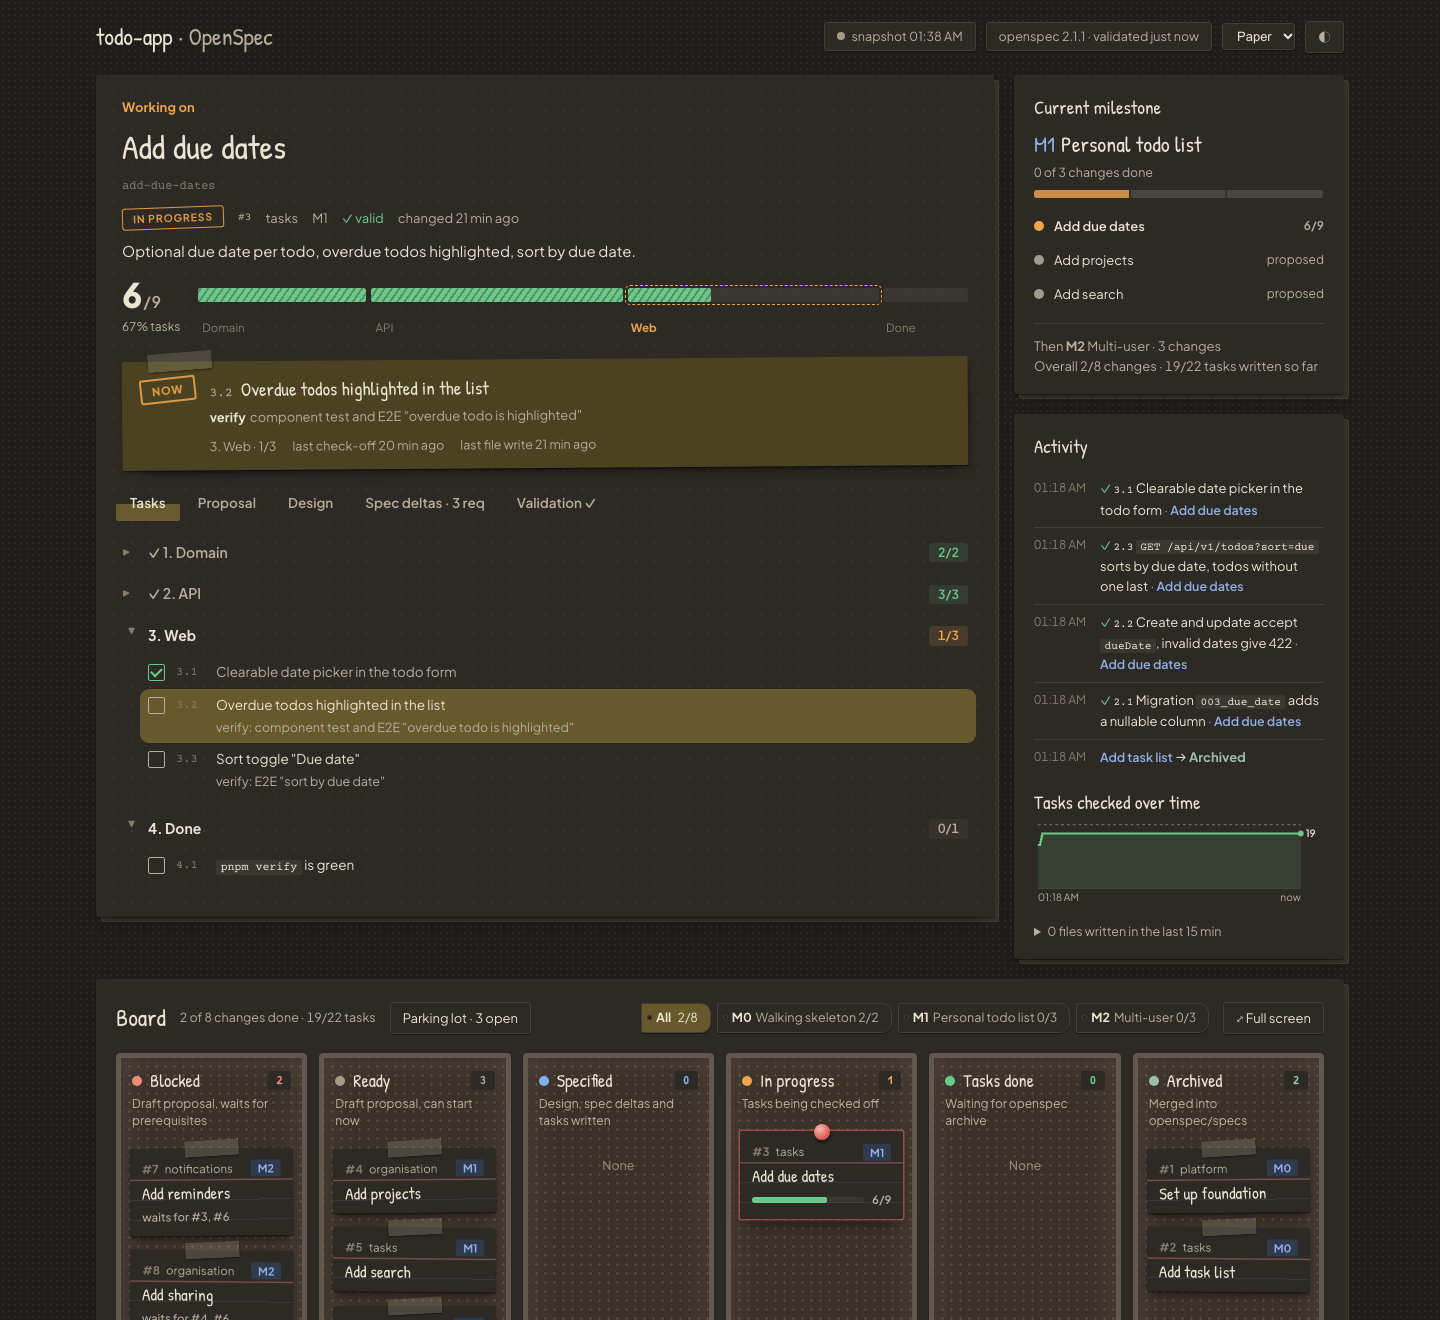
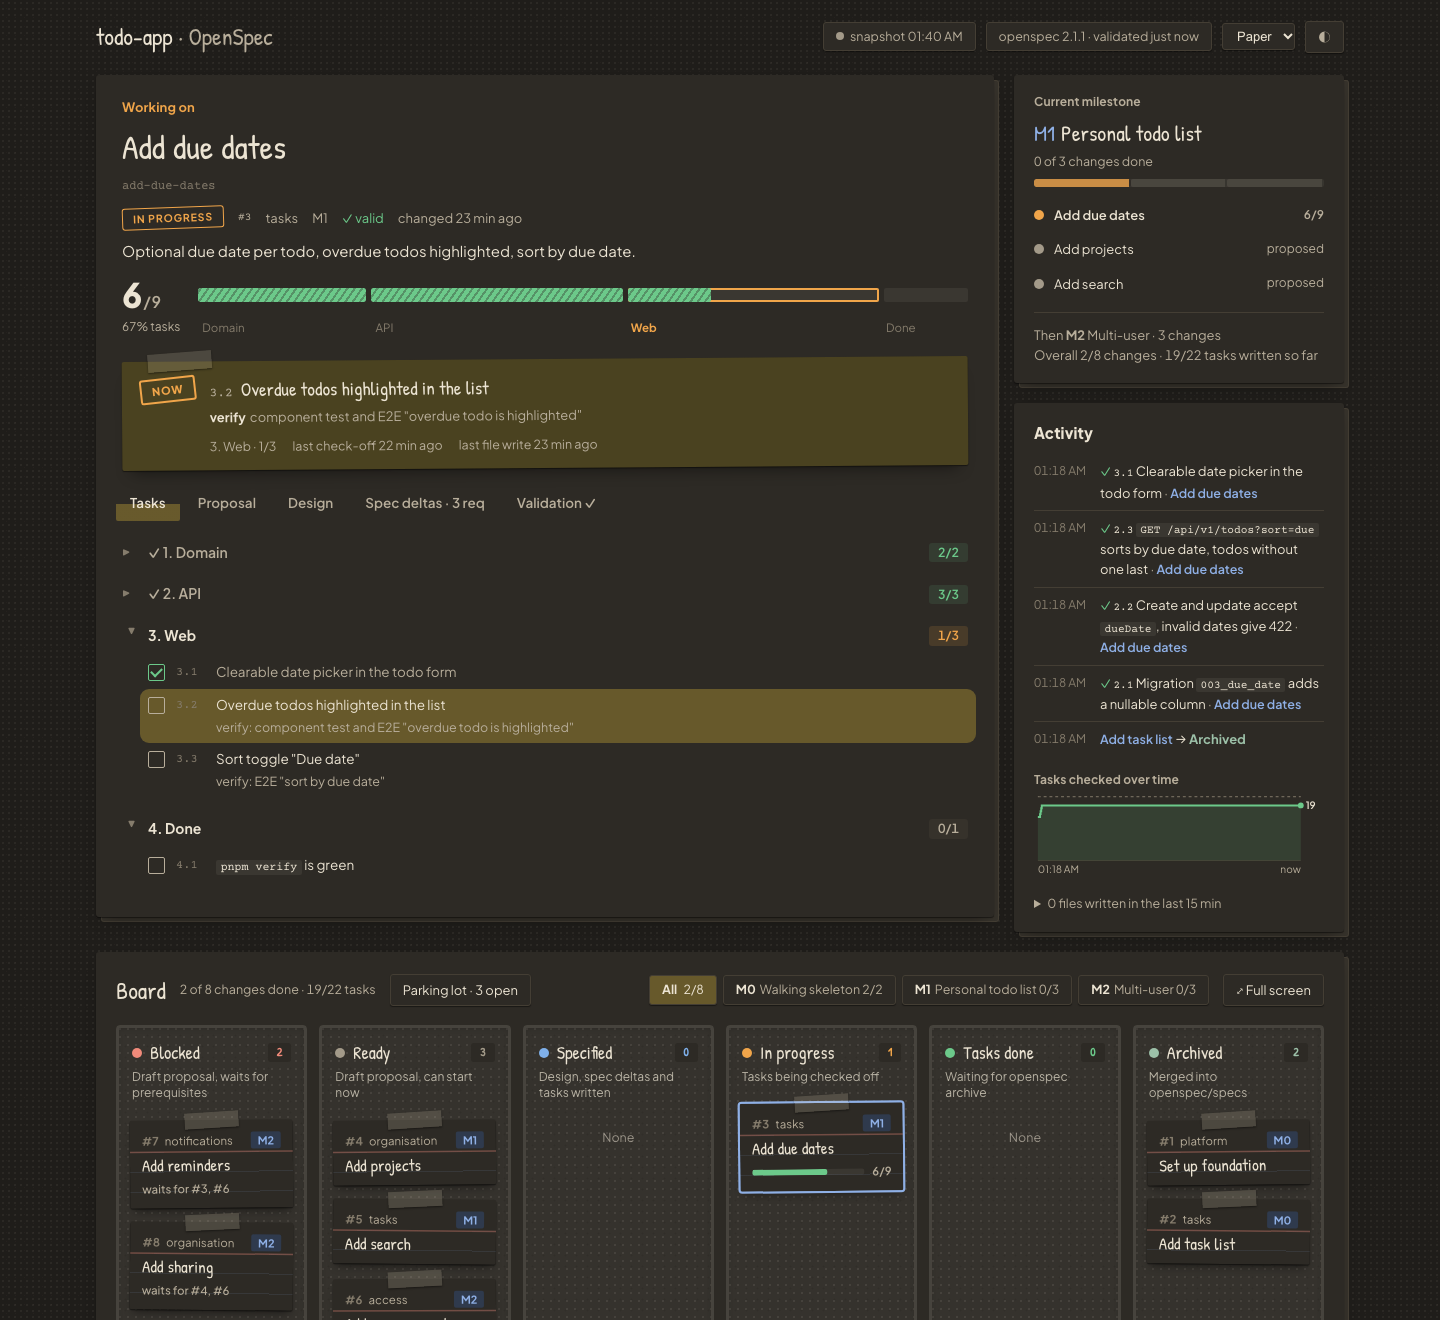
Paper style: back to the first version, lighter board columns
- Revert the polish pass (pin, dot grid, handwritten panel titles, stamp opacity,
  dashed current segment, label-shaped filters, darker cork edge)
- Board columns: light warm cork with a thin, light frame instead of dark brown
- Paper screenshots in the user guide updated

diff --git a/tools/openspec-dashboard/index.html b/tools/openspec-dashboard/index.html
@@ -379,23 +379,20 @@ body.board-max { overflow: hidden; }
    Paper redefines the base tokens; its dark blocks carry one more selector part so they win over both the base
    dark blocks and its own light block. */
 :root {
-  --p-note: #fff1a6; --p-cork: #d8c29e; --p-rule: rgba(47, 95, 168, .10); --p-margin: rgba(194, 65, 47, .45);
+  --p-note: #fff1a6; --p-cork: #e8dcc6; --p-rule: rgba(47, 95, 168, .10); --p-margin: rgba(194, 65, 47, .45);
   --p-tape: rgba(255, 251, 232, .78); --p-highlight: rgba(255, 212, 0, .45); --p-shadow: rgba(60, 45, 20, .20);
-  --p-pin: #d2382b; --p-grid: rgba(47, 95, 168, .07);
   --font-hand: "Patrick Hand", "Segoe Print", "Comic Sans MS", cursive;
   --font-type: "Courier Prime", "Courier New", ui-monospace, monospace;
 }
 @media (prefers-color-scheme: dark) {
   :root:not([data-theme="light"]) {
-    --p-note: #4a4220; --p-cork: #3b3128; --p-rule: rgba(143, 176, 230, .10); --p-margin: rgba(240, 138, 122, .35);
+    --p-note: #4a4220; --p-cork: #35322d; --p-rule: rgba(143, 176, 230, .10); --p-margin: rgba(240, 138, 122, .35);
     --p-tape: rgba(240, 230, 200, .16); --p-highlight: rgba(240, 200, 60, .30); --p-shadow: rgba(0, 0, 0, .45);
-    --p-pin: #e0645a; --p-grid: rgba(143, 176, 230, .07);
   }
 }
 :root[data-theme="dark"] {
-  --p-note: #4a4220; --p-cork: #3b3128; --p-rule: rgba(143, 176, 230, .10); --p-margin: rgba(240, 138, 122, .35);
+  --p-note: #4a4220; --p-cork: #35322d; --p-rule: rgba(143, 176, 230, .10); --p-margin: rgba(240, 138, 122, .35);
   --p-tape: rgba(240, 230, 200, .16); --p-highlight: rgba(240, 200, 60, .30); --p-shadow: rgba(0, 0, 0, .45);
-  --p-pin: #e0645a; --p-grid: rgba(143, 176, 230, .07);
 }
 :root[data-style="paper"] {
   --bg: #e7e1d3; --surface: #fffdf6; --surface-2: #f3eee2; --ink: #2b2925; --muted: #6a6357; --faint: #a0988a;
@@ -448,21 +445,14 @@ body.board-max { overflow: hidden; }
   box-shadow: 0 1px 1px var(--p-shadow), 0 8px 16px -8px var(--p-shadow), 5px 5px 0 -1px var(--surface-2), 5px 5px 0 0 var(--line);
 }
 :root[data-style="paper"] .board.max { box-shadow: none; border-radius: 0; background: transparent; }
-/* the focus panel is an engineering pad: faint dot grid */
-:root[data-style="paper"] #focus {
-  background-image: radial-gradient(var(--p-grid) 1.1px, transparent 1.3px);
-  background-size: 18px 18px; background-position: 9px 9px;
-}
-:root[data-style="paper"] .side .label { font-family: var(--font-hand); font-weight: 400 !important; font-size: 19px !important; color: var(--ink); letter-spacing: 0; }
 :root[data-style="paper"] .col {
   background-color: var(--p-cork);
   background-image:
-    radial-gradient(color-mix(in srgb, var(--ink) 14%, transparent) 1px, transparent 1.4px),
-    radial-gradient(color-mix(in srgb, var(--surface) 30%, transparent) 1px, transparent 1.4px);
-  background-size: 9px 9px, 13px 13px; background-position: 0 0, 4px 6px;
+    radial-gradient(color-mix(in srgb, var(--ink) 9%, transparent) .9px, transparent 1.2px),
+    radial-gradient(color-mix(in srgb, var(--surface) 45%, transparent) .9px, transparent 1.2px);
+  background-size: 8px 8px, 11px 11px; background-position: 0 0, 4px 5px;
   border-radius: 4px;
-  box-shadow: inset 0 0 0 5px color-mix(in srgb, var(--p-cork) 60%, var(--ink) 22%), inset 0 3px 8px var(--p-shadow),
-    inset 0 0 40px color-mix(in srgb, var(--ink) 14%, transparent);
+  box-shadow: inset 0 0 0 3px color-mix(in srgb, var(--p-cork) 82%, var(--ink) 10%), inset 0 2px 6px color-mix(in srgb, var(--p-shadow) 60%, transparent);
 }
 :root[data-style="paper"] .col-head { padding: 14px 16px 6px; }
 :root[data-style="paper"] .col-head .d { color: color-mix(in srgb, var(--ink) 72%, transparent); }
@@ -485,13 +475,7 @@ body.board-max { overflow: hidden; }
   content: ""; position: absolute; top: -8px; left: 50%; width: 54px; height: 16px;
   transform: translateX(-50%) rotate(-3deg); background: var(--p-tape); box-shadow: 0 1px 2px var(--p-shadow);
 }
-/* the selected card is pinned instead of taped */
-:root[data-style="paper"] .kc.focus { transform: rotate(0); box-shadow: 0 0 0 1.5px color-mix(in srgb, var(--p-pin) 55%, transparent), 0 10px 16px -6px var(--p-shadow); }
-:root[data-style="paper"] .kc.focus::before {
-  top: -7px; width: 16px; height: 16px; border-radius: 50%; transform: translateX(-50%);
-  background: radial-gradient(circle at 35% 30%, color-mix(in srgb, var(--p-pin) 45%, white), var(--p-pin) 60%, color-mix(in srgb, var(--p-pin) 70%, black));
-  box-shadow: 1px 3px 3px var(--p-shadow);
-}
+:root[data-style="paper"] .kc.focus { box-shadow: 0 0 0 2px var(--accent), 0 6px 10px -4px var(--p-shadow); }
 :root[data-style="paper"] .kc-top .m { border-radius: 2px; }
 :root[data-style="paper"] .now,
 :root[data-style="paper"] .board-now {
@@ -499,8 +483,6 @@ body.board-max { overflow: hidden; }
   box-shadow: 0 1px 1px var(--p-shadow), 0 12px 16px -10px var(--p-shadow);
 }
 :root[data-style="paper"] .now { transform: rotate(-.4deg); }
-/* lifted bottom-right corner of the sticky note: the shadow falls further out at the lower right */
-:root[data-style="paper"] .now { box-shadow: 0 1px 1px var(--p-shadow), 8px 14px 14px -12px var(--p-shadow), 2px 4px 6px -4px var(--p-shadow); }
 :root[data-style="paper"] .now.done { background: color-mix(in srgb, var(--st-complete) 22%, var(--p-note)); }
 :root[data-style="paper"] .now::before {
   content: ""; position: absolute; top: -9px; left: 26px; width: 64px; height: 18px;
@@ -508,14 +490,13 @@ body.board-max { overflow: hidden; }
 }
 :root[data-style="paper"] .now .tag {
   background: transparent; color: var(--st-progress); border: 2px solid currentColor; border-radius: 3px;
-  text-transform: uppercase; letter-spacing: .08em; font-size: 11px; transform: rotate(-6deg); opacity: .88;
+  text-transform: uppercase; letter-spacing: .08em; font-size: 11px; transform: rotate(-6deg);
 }
 :root[data-style="paper"] .now.done .tag { color: var(--st-complete); }
 :root[data-style="paper"] .pill {
   display: inline-block; background: transparent; border: 1.5px solid var(--st); border-radius: 3px;
-  text-transform: uppercase; font-size: 10.5px; letter-spacing: .08em; transform: rotate(-2deg); opacity: .9;
+  text-transform: uppercase; font-size: 10.5px; letter-spacing: .08em; transform: rotate(-2deg);
 }
-:root[data-style="paper"] .seg.cur { box-shadow: none; outline: 1.5px dashed var(--st-progress); outline-offset: 2px; }
 :root[data-style="paper"] .bar,
 :root[data-style="paper"] .seg { border-radius: 2px; background: color-mix(in srgb, var(--ink) 7%, transparent); }
 :root[data-style="paper"] .bar > span,
@@ -537,11 +518,6 @@ body.board-max { overflow: hidden; }
 :root[data-style="paper"] .live > span,
 :root[data-style="paper"] .board-live {
   border-radius: 3px; background: var(--surface); border: 1px solid var(--line); box-shadow: 0 1px 1px var(--p-shadow);
-}
-:root[data-style="paper"] .ms-filter button { border-radius: 2px 10px 10px 2px; padding-left: 14px; position: relative; }
-:root[data-style="paper"] .ms-filter button::before {
-  content: ""; position: absolute; left: 5px; top: 50%; width: 5px; height: 5px; margin-top: -2.5px; border-radius: 50%;
-  background: var(--bg); box-shadow: inset 0 0 0 1px var(--line);
 }
 :root[data-style="paper"] .ms-filter button[aria-pressed="true"],
 :root[data-style="paper"] .eyebrow .switch button[aria-pressed="true"] { background: var(--p-highlight); color: var(--ink); }
